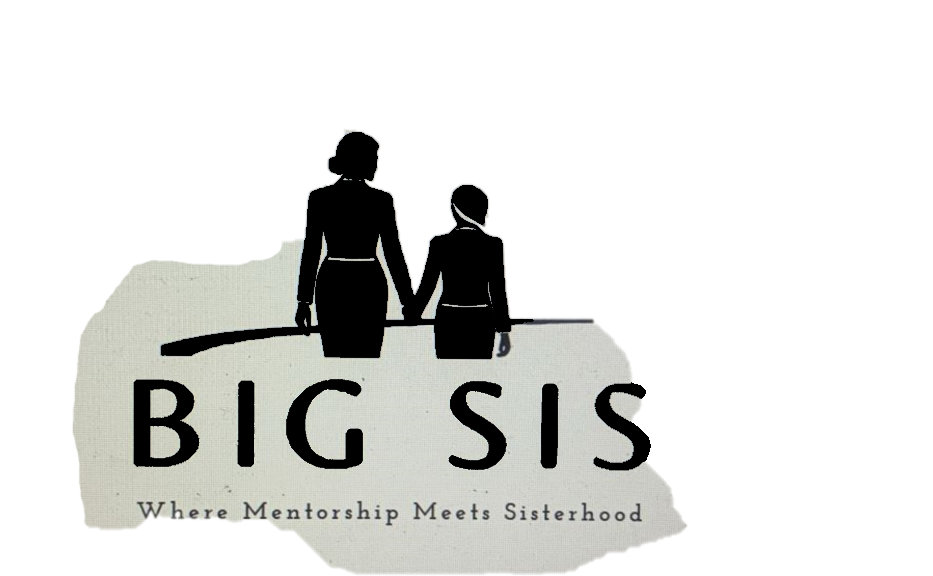
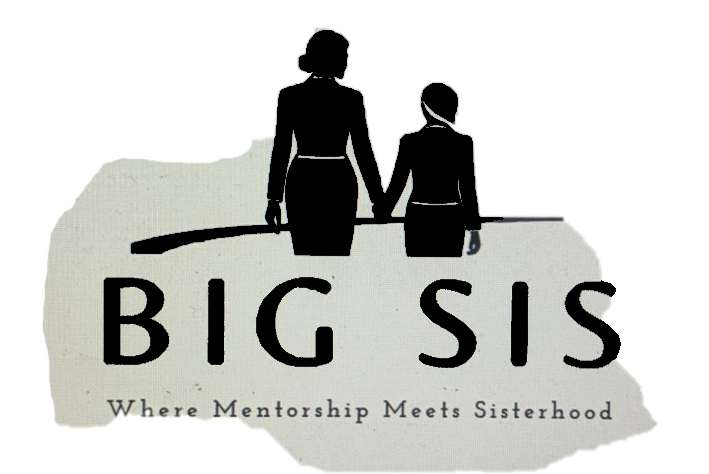
all

diff --git a/style.css b/style.css
@@ -147,18 +147,13 @@ overflow: hidden;
 }
 
 .pglogo{
-    width: 400px;
-    margin-top: 100px;
+    width: 300px;
+    margin-top:20px;
     border-radius: 50%;
+    filter:
+    drop-shadow(0px 0px 1px black);
     object-fit: cover;
     user-select: none;
-    box-shadow:
-    inset 0px 0px 0px #255E3B,
-    inset 0px 0px 0px #4BBC77,
-    inset 0px 0px 0px #FF66C4,
-    inset 0px 0px 0px #ffaee0,
-    inset 60px 0px 0px #FFD0ED ;
-    animation: grows 10s ease-in-out infinite;
 }
     .welcome h1{
     position: relative;
@@ -178,12 +173,47 @@ overflow: hidden;
 .menubar{
     display: flex;
     position: absolute;
-    width:100%;
     justify-content: flex-end;
     align-items: center;
-    height:70px;
+    height:50px;
+    width:80%;
     border-radius: 30px;
+    animation:returns ease-in forwards;
+    animation-timeline: view();
+    animation-range-start: 120vh;
+    animation-range-end: 300vh;
   
+}
+@keyframes returns {
+    0%{
+        opacity:0;
+    }
+ 
+    15%{
+            position:sticky;
+    border-radius: 0px;
+    opacity:1;
+
+            width:100%;
+            backdrop-filter: blur(4rem);
+            background:rgba(255, 255, 255, 0.662);
+            -webkit-backdrop-filter: blur(4rem);
+            z-index: 10;
+            top:0;
+
+    }
+    100%{
+        position:sticky;
+        border-radius: 0px;
+        opacity:1;
+    
+                width:100%;
+                backdrop-filter: blur(4rem);
+                -webkit-backdrop-filter: blur(4rem);
+                z-index: 10;
+                top:0;
+        background:rgb(255, 255, 255);
+    }
 }
 .welcome p{
     letter-spacing: 2px;
@@ -224,12 +254,12 @@ overflow: hidden;
 }
 
 .cardbox{
-height:250px;
-margin:5px;
+height:190px;
+margin:10px;
 background:rgb(0, 0, 0);
 background-image: url(./assets/girls.jpg);
 -webkit-background-image: url(./assets/girls.jpg);
-border-radius: 20px;
+border-radius: 40px;
 background-size: 1000px 600px;
 -webkit-background-size: 1000px 600px;
 background-position: center;
@@ -249,14 +279,24 @@ border:15px solid rgba(255, 255, 255, 0);
 .cardbox:nth-child(1),
     .cardbox:nth-child(4){
     width: 30%;
-    animation:lengthen linear forwards;
+    animation:lengthen ease-in forwards;
     animation-timeline: view();
-    animation-range-start:70vh;
+    animation-range-start:-10vh;
     animation-range-end: 140vh;
 }
 @keyframes lengthen {
+    0%,60%{
+        opacity:0;
+        width:0%;
 
+    }
+70%{
+    opacity:0;
+    width:55%;
+
+}
     100%{
+        opacity: 1;
         width:65%;
 
     }
@@ -265,8 +305,8 @@ border:15px solid rgba(255, 255, 255, 0);
 .cardbox:nth-child(2),
     .cardbox:nth-child(3){
     width:30%;
-    outline-offset:-7px;
-    outline:3px double gold;
+    outline-offset:-12px;
+    outline:4px double rgb(255, 158, 218)
 }
 .path{
     stroke-linecap: round;
@@ -279,6 +319,7 @@ border:15px solid rgba(255, 255, 255, 0);
     justify-content: space-around;
     align-items: center;
     flex-wrap: wrap;
+    padding-top:100px;
     background:whitesmoke;
     margin:auto;
     width:70%;
@@ -466,7 +507,8 @@ color:rgba(255, 255, 255, 0.2);
 background-image:
 repeating-linear-gradient(45deg,white,white);
 background-clip: text;
-font-size:30px;
+letter-spacing: 2px;
+font-size:25px;
 background-size: 0% 100%;
 animation: scrolls linear forwards;
 animation-timeline: view();
@@ -537,10 +579,10 @@ to{
     background:rgba(255, 255, 255, 0.23);
 }
 .note{
-    background:repeating-linear-gradient(45deg,#255E3B,black 300px);
-    color:white;
+    color:var(--text-color);
     width:400px;
     display: flex;
+    background: lightgray;
     background-attachment: fixed;
     height:fit-content;
     border-radius: 0px 30px 30px 0px;
@@ -570,25 +612,29 @@ to{
     background:linear-gradient(45deg,rgb(0, 255, 187),rgb(0, 208, 255),yellow,rgb(230, 39, 255),white);
     backdrop-filter: blur(4rem);
     background-clip: text;
+    margin:10px;
     background-size: 0% 100%;
 animation: scrolls linear forwards;
 animation-timeline: view();
 background-repeat: no-repeat;
 
-    border-radius: 15px;
-    animation-range-start:40vh;
-    animation-range-end: 140vh;
+    border-radius: 10px;
+    animation-range-start:110vh;
+    animation-range-end: 155vh;
     font-size: 10px;
+    max-width: 90%;
     overflow: hidden;
     color:transparent !important;
 }
 .say2{
     color:white !important;
-    font-size:15px
+    font-size:10px;
+    margin:auto;
 }
 #logo{
-    width:220px;
+    width:140px;
     margin:10px;
+    margin-top:50px;
     filter:
     drop-shadow(0px 0px 1px white)
     drop-shadow(0px 0px 1px white)

diff --git a/mobile.css b/mobile.css
@@ -6,20 +6,22 @@
 .cardbox:nth-child(1),
 .cardbox:nth-child(2),
 .cardbox:nth-child(3),
-    .cardbox:nth-child(4){
-    border-radius: 30px;
-    outline:3px double gold;
-    width:90%;
-    -webkit-aspect-ratio: 1/1;
-    -o-aspect-ratio: 1/1;
-    aspect-ratio: 1/1;
-    aspect-ratio: 1/1;
-    background:black;
-    background-image: black;
-    object-fit: cover;
-    animation: none;
+.cardbox:nth-child(4){
+border-radius: 30px;
+width:90%;
+-webkit-aspect-ratio: 1/1;
+-o-aspect-ratio: 1/1;
+aspect-ratio: 1/1;
+aspect-ratio: 1/1;
+outline:none;
+color:rgb(255, 164, 255) !important;
+object-fit: cover;
+animation: none;
 
-};
+}
+.say2,.say{
+    color:rgb(255, 129, 255) !important;
+}
 .input{transform: scale(.5);}
 .footer{
     display: flex;
@@ -28,10 +30,11 @@
 .footer,.mission,.text-cards{
     position: unset;
 }
+
 .gallery{
     display: none;
 }
-.options:hover,.send:hover,.options:active,.send:active{
+.options:hover,.send:hover{
     box-shadow: inset 700px 0px 0px black;
     cursor: pointer;
     color:whitesmoke;
@@ -101,7 +104,8 @@
 }
 
 .pglogo{
-    width:200px;
+    width:210px;
+    border-radius: 50% 50% 50% 40%;
     height: 150px;
     object-fit: cover;
 }
@@ -114,6 +118,9 @@
     inset 0px 0px 0px #ffaee0,
     inset 30px 0px 0px #FFD0ED ;
 
+}
+.readp span{
+    font-size: 15px;
 }
 .svgmenu{
 display:block;

diff --git a/index.html b/index.html
@@ -6,7 +6,7 @@
     <title>THE BIGSIS PROJECT</title>
     <link rel="stylesheet" href="style.css">
     <link rel="stylesheet" href="mobile.css">
-    <link rel="shortcut icon" href="assets/favicon.png" type="image/x-icon">
+    <link rel="shortcut icon" href="assets/l.png" type="image/x-icon">
     <script src="index.js" defer></script>
 </head>
 <body>
@@ -74,9 +74,9 @@
     <div class="read">
         <p class="readp">
             <span>
-                The BIGSIS project is focusing on the personal and 
+                The BIGSIS project is focusing on the personal and industrial
             </span><span>
-                industrial development of the next generation of female leaders by 
+                 development of the next generation of female leaders by 
             </span><span>
                 building their confidence, centering their voices and ensuring they reach their full potential.</span>
         </p>
